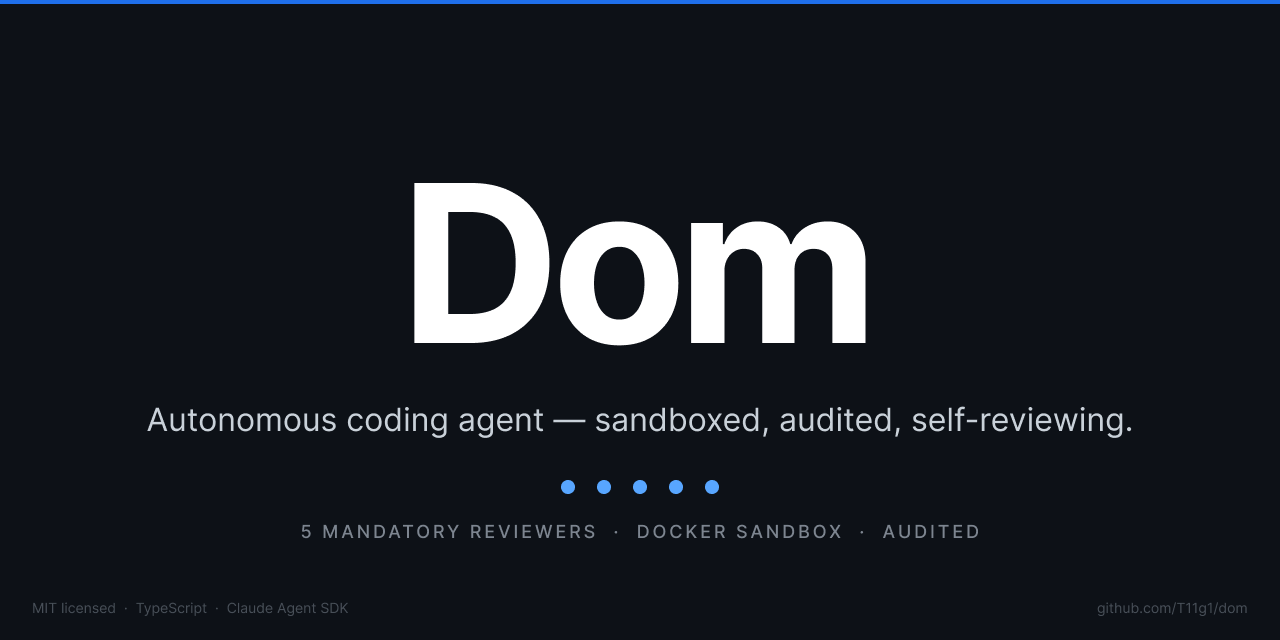
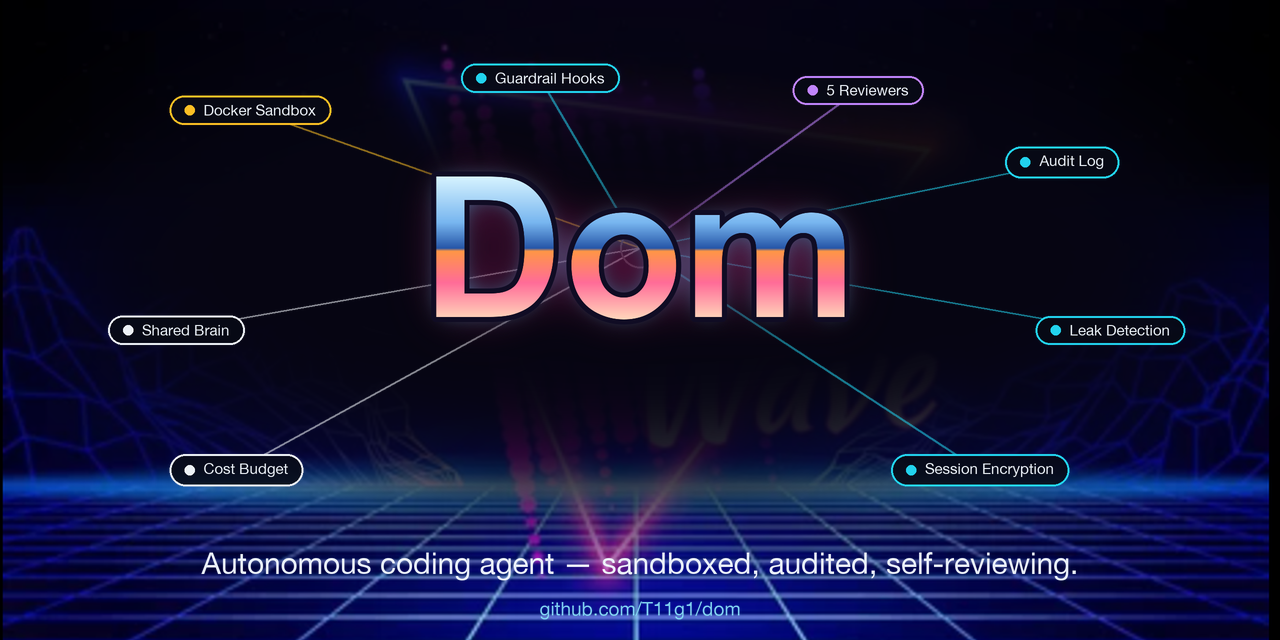
Restyle social card: synthwave background with color-coded capability mindmap
Replace the plain social card with a retrowave-styled version: chrome "Dom"
wordmark over the synthwave scene, plus a color-coded mindmap of capabilities
(Security/Sandbox/Review/State). Add make-social-card.py generator so the
card is reproducible.

diff --git a/.github/make-social-card.py b/.github/make-social-card.py
@@ -1,0 +1,178 @@
+#!/usr/bin/env python3
+"""Regenerate the GitHub social card in the synthwave style of the reference
+artwork ("Dom image.png"): the retrowave scene is the background, the baked-in
+"SYNTH Wave" text is suppressed with a soft center glow, a chrome "Dom"
+wordmark replaces it, and a color-coded capability mindmap is overlaid BEHIND
+the wordmark (branch lines run behind the letters).
+"""
+from PIL import Image, ImageDraw, ImageFont, ImageFilter
+
+REF = "/Users/rainer.tiigi/Desktop/Claude/Dom image.png"
+OUT = ".github/social-card.png"
+
+W, H = 1280, 640
+S = 2  # supersample factor
+
+CAT = {
+    "security": (34, 211, 238),   # cyan
+    "sandbox":  (251, 191, 36),   # amber
+    "review":   (192, 132, 252),  # violet
+    "ops":      (236, 240, 245),  # near-white
+}
+HUB = (640, 248)
+NODES = [
+    ("Docker Sandbox",     250, 110, "sandbox"),
+    ("Guardrail Hooks",    540, 78,  "security"),
+    ("5 Reviewers",        858, 90,  "review"),
+    ("Audit Log",         1062, 162, "security"),
+    ("Leak Detection",    1110, 330, "security"),
+    ("Session Encryption", 980, 470, "security"),
+    ("Shared Brain",       176, 330, "ops"),
+    ("Cost Budget",        236, 470, "ops"),
+]
+
+FONT = "/System/Library/Fonts/HelveticaNeue.ttc"
+FONT_BOLD = "/System/Library/Fonts/Supplemental/Arial Bold.ttf"
+
+
+def font(path, size):
+    try:
+        return ImageFont.truetype(path, size)
+    except Exception:
+        return ImageFont.load_default()
+
+
+# ---------------------------------------------------------------------------
+# 1. synthwave background + center spotlight (suppress old "SYNTH Wave")
+# ---------------------------------------------------------------------------
+ref = Image.open(REF).convert("RGB")
+rw, rh = ref.size
+scale = max(W / rw, H / rh)
+ref = ref.resize((int(round(rw * scale)), int(round(rh * scale))), Image.LANCZOS)
+nw, nh = ref.size
+left, top = (nw - W) // 2, (nh - H) // 2
+base = ref.crop((left, top, left + W, top + H))
+
+spot = Image.new("L", (W, H), 0)
+sd = ImageDraw.Draw(spot)
+sd.ellipse([640 - 600, 272 - 258, 640 + 600, 272 + 258], fill=255)
+sd.ellipse([650 - 370, 352 - 165, 650 + 370, 352 + 165], fill=255)  # over the "Wave" script
+spot = spot.filter(ImageFilter.GaussianBlur(65))
+base = Image.composite(Image.new("RGB", (W, H), (6, 5, 18)), base, spot.point(lambda v: int(v * 1.0)))
+base = base.convert("RGBA")
+
+
+# ---------------------------------------------------------------------------
+# 2. color-coded mindmap (drawn BEFORE the wordmark so "Dom" covers the lines)
+# ---------------------------------------------------------------------------
+layer = Image.new("RGBA", (W * S, H * S), (0, 0, 0, 0))
+ld = ImageDraw.Draw(layer)
+flab = font(FONT, 15 * S)
+hx, hy = HUB[0] * S, HUB[1] * S
+
+chips = []
+for label, x, y, cat in NODES:
+    color = CAT[cat]
+    bbox = ld.textbbox((0, 0), label, font=flab)
+    tw, th = bbox[2] - bbox[0], bbox[3] - bbox[1]
+    dot_d, px, py, gap = 10 * S, 15 * S, 9 * S, 9 * S
+    cw = px + dot_d + gap + tw + px
+    ch = py + max(th, dot_d) + py
+    cx, cy = x * S, y * S
+    x0, y0 = cx - cw // 2, cy - ch // 2
+    m = 16 * S
+    x0 = max(m, min(x0, W * S - m - cw))
+    y0 = max(m, min(y0, H * S - m - ch))
+    chips.append((label, color, x0, y0, cw, ch, dot_d, px, py, gap, bbox, th))
+
+for label, color, x0, y0, cw, ch, *_ in chips:
+    ld.line([(hx, hy), (x0 + cw // 2, y0 + ch // 2)], fill=color + (140,), width=2 * S)
+
+hr = 20 * S
+ld.ellipse([hx - hr, hy - hr, hx + hr, hy + hr], outline=(236, 240, 245, 70), width=2 * S)
+
+for label, color, x0, y0, cw, ch, dot_d, px, py, gap, bbox, th in chips:
+    try:
+        ld.rounded_rectangle([x0, y0, x0 + cw, y0 + ch], radius=ch // 2,
+                             fill=(8, 10, 22, 225), outline=color + (255,), width=2 * S)
+    except AttributeError:
+        ld.rectangle([x0, y0, x0 + cw, y0 + ch], fill=(8, 10, 22, 225), outline=color + (255,), width=2 * S)
+    dcx, dcy = x0 + px + dot_d // 2, y0 + ch // 2
+    ld.ellipse([dcx - dot_d // 2, dcy - dot_d // 2, dcx + dot_d // 2, dcy + dot_d // 2], fill=color + (255,))
+    tx = x0 + px + dot_d + gap - bbox[0]
+    ty = y0 + (ch - th) // 2 - bbox[1]
+    ld.text((tx, ty), label, font=flab, fill=(234, 240, 246, 255))
+
+base = Image.alpha_composite(base, layer.resize((W, H), Image.LANCZOS))
+
+
+# ---------------------------------------------------------------------------
+# 3. chrome "Dom" wordmark (80s metallic: cyan-blue top, warm-pink bottom)
+# ---------------------------------------------------------------------------
+def chrome_text(text, fnt, cy_center):
+    cw_, ch_ = W * S, H * S
+    tmp = ImageDraw.Draw(Image.new("RGBA", (1, 1)))
+    bbox = tmp.textbbox((0, 0), text, font=fnt)
+    tw, th = bbox[2] - bbox[0], bbox[3] - bbox[1]
+    tx = (cw_ - tw) // 2 - bbox[0]
+    ty = int(cy_center * S - th / 2) - bbox[1]
+    text_top, text_h = ty + bbox[1], th
+
+    # vertical chrome gradient (classic split with a hard horizon)
+    stops = [(0.00, (215, 243, 255)), (0.32, (120, 182, 240)), (0.50, (38, 86, 168)),
+             (0.52, (255, 150, 70)), (0.74, (255, 108, 152)), (1.00, (255, 216, 188))]
+    grad = Image.new("RGB", (cw_, ch_), (0, 0, 0))
+    gd = ImageDraw.Draw(grad)
+    for y in range(ch_):
+        t = min(1.0, max(0.0, (y - text_top) / max(1, text_h)))
+        col = stops[-1][1]
+        for i in range(len(stops) - 1):
+            t0, c0 = stops[i]
+            t1, c1 = stops[i + 1]
+            if t0 <= t <= t1:
+                f = (t - t0) / max(1e-6, t1 - t0)
+                col = tuple(int(c0[k] + (c1[k] - c0[k]) * f) for k in range(3))
+                break
+        gd.line([(0, y), (cw_, y)], fill=col)
+
+    mask = Image.new("L", (cw_, ch_), 0)
+    ImageDraw.Draw(mask).text((tx, ty), text, font=fnt, fill=255)
+    chrome = Image.new("RGBA", (cw_, ch_), (0, 0, 0, 0))
+    chrome.paste(grad, (0, 0), mask)
+
+    out = Image.new("RGBA", (cw_, ch_), (0, 0, 0, 0))
+    # outer neon glow
+    for col, blur in [((255, 40, 160, 215), 28 * S), ((90, 210, 255, 150), 13 * S)]:
+        g = Image.new("RGBA", (cw_, ch_), (0, 0, 0, 0))
+        ImageDraw.Draw(g).text((tx, ty), text, font=fnt, fill=col, stroke_width=3 * S, stroke_fill=col)
+        out = Image.alpha_composite(out, g.filter(ImageFilter.GaussianBlur(blur)))
+    # dark rim for definition
+    rim = Image.new("RGBA", (cw_, ch_), (0, 0, 0, 0))
+    ImageDraw.Draw(rim).text((tx, ty), text, font=fnt, fill=(16, 12, 36, 255),
+                             stroke_width=5 * S, stroke_fill=(16, 12, 36, 255))
+    out = Image.alpha_composite(out, rim)
+    # chrome fill
+    out = Image.alpha_composite(out, chrome)
+    return out.resize((W, H), Image.LANCZOS)
+
+
+base = Image.alpha_composite(base, chrome_text("Dom", font(FONT_BOLD, 196 * S), HUB[1]))
+
+
+# ---------------------------------------------------------------------------
+# 4. tagline + url
+# ---------------------------------------------------------------------------
+tl = Image.new("RGBA", (W * S, H * S), (0, 0, 0, 0))
+td = ImageDraw.Draw(tl)
+ftag = font(FONT, 30 * S)
+furl = font(FONT, 19 * S)
+tag = "Autonomous coding agent — sandboxed, audited, self-reviewing."
+b = td.textbbox((0, 0), tag, font=ftag)
+td.text(((W * S - (b[2] - b[0])) // 2 - b[0], 545 * S), tag, font=ftag, fill=(232, 238, 248, 255))
+url = "github.com/T11g1/dom"
+b2 = td.textbbox((0, 0), url, font=furl)
+td.text(((W * S - (b2[2] - b2[0])) // 2 - b2[0], 597 * S), url, font=furl, fill=(125, 205, 235, 255))
+base = Image.alpha_composite(base, tl.resize((W, H), Image.LANCZOS))
+
+base.convert("RGB").save(OUT)
+print("wrote", OUT)